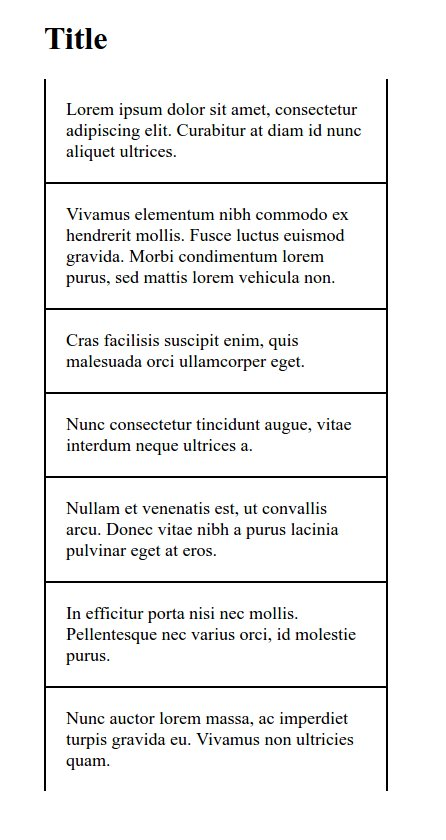
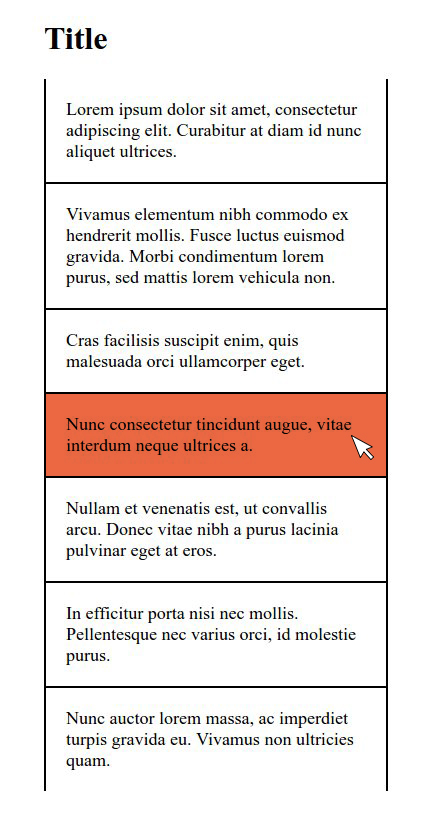
updated task #7

diff --git a/tools-and-coding/html-css/README.md b/tools-and-coding/html-css/README.md
@@ -131,6 +131,8 @@ Font size: 18 pixels
 ### Exercise 7
 ![seventh](7.jpg)
 
+Try to change the color of the blocks when the mouse is over it.
+
 Font size: 18 pixels
 
 ### Exercise 8
